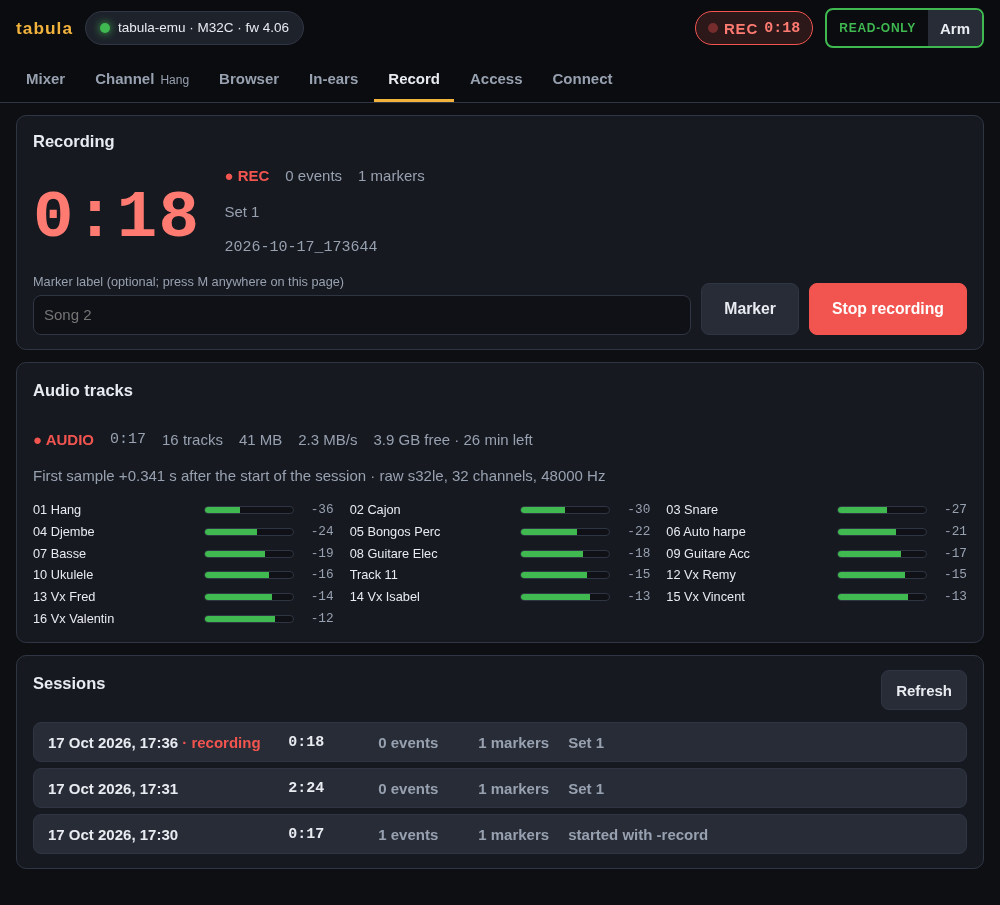
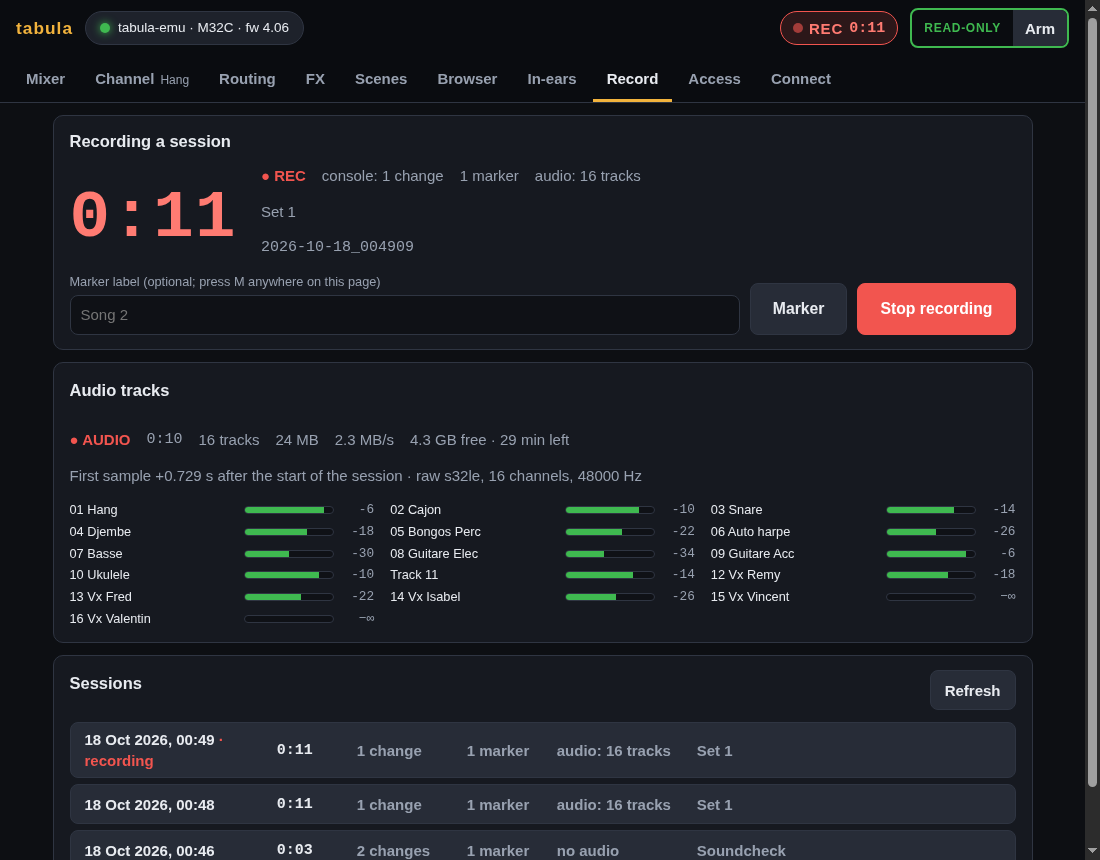
Record: say what a session keeps, console settings vs audio
The Recording card lists the two parts of a session: the console (a
snapshot of its settings, then every change, not the sound) always, and the
audio of the USB card only when Audio tracks is on, with its track count.
The session list and details count console changes and show which sessions
have audio; the replay says it moves the console and plays no sound. New
recording screenshot in the docs.

diff --git a/web/src/pages/RecordPage.tsx b/web/src/pages/RecordPage.tsx
@@ -1,14 +1,18 @@
 // Recording and replay of shows: start/stop with a note, markers (M key),
-// the recorded sessions, and replaying one onto the console.
+// the recorded sessions, and replaying one onto the console. A session is
+// the console (a snapshot of its settings, then every change) and, when the
+// audio card is on, the sound of the console's USB card.
 
 import { useCallback, useEffect, useRef, useState } from "react";
 import { ConfirmDialog } from "../components/shell";
 import { ApiError } from "../lib/api";
 import type { Record as RecordStatus, SessionDetail, SessionSummary } from "../lib/session";
+import { audioPlan, plural } from "../lib/audio";
 import { formatDuration, parseTime, sessionApi } from "../lib/session";
 import { useCanWrite, useRecord, useStatus } from "../store/hooks";
 import { store } from "../store/store";
-import { AudioPanel, SessionAudio } from "./AudioPanel";
+import type { Audio } from "./AudioPanel";
+import { AudioPanel, SessionAudio, useAudio } from "./AudioPanel";
 
 const SPEEDS = [0.5, 1, 2, 4, 8];
 
@@ -17,6 +21,7 @@ export function RecordPage() {
   const [sessions, setSessions] = useState<SessionSummary[] | null>(null);
   const [listError, setListError] = useState("");
   const [selected, setSelected] = useState<string | null>(null);
+  const audio = useAudio(!!rec?.recording);
 
   const load = useCallback(async () => {
     try {
@@ -42,8 +47,8 @@ export function RecordPage() {
   }
   return (
     <div className="page record">
-      <Recorder rec={rec} />
-      <AudioPanel rec={rec} />
+      <Recorder rec={rec} audio={audio} />
+      <AudioPanel rec={rec} audio={audio} />
       <section className="card">
         <div className="section-head">
           <h2>Sessions</h2>
@@ -71,8 +76,9 @@ export function RecordPage() {
                   {rec?.replaying && rec.replay_of === s.name && <span className="note"> · replaying</span>}
                 </span>
                 <span className="mono">{formatDuration(s.meta.duration)}</span>
-                <span className="muted">{s.meta.events} events</span>
-                <span className="muted">{s.meta.markers} markers</span>
+                <span className="muted">{plural(s.meta.events, "change")}</span>
+                <span className="muted">{plural(s.meta.markers, "marker")}</span>
+                <span className="muted">{s.meta.audio ? `audio: ${plural(s.meta.audio.tracks?.length ?? 0, "track")}` : "no audio"}</span>
                 <span className="session-note">{s.meta.note || s.meta.console || ""}</span>
               </button>
             );
@@ -100,7 +106,33 @@ function useTick(on: boolean, ms: number) {
   }, [on, ms]);
 }
 
-function Recorder({ rec }: { rec: RecordStatus | null }) {
+/** RecordsWhat lists what a session keeps: the console always, the audio when its card is on. */
+function RecordsWhat({ audio, live }: { audio: string; live?: boolean }) {
+  return (
+    <ul className="records-what">
+      <li>
+        <span className="rec-kind">Console</span>
+        <span>
+          a snapshot of every setting at the start (a scene file that opens in M32-Edit), then every change, on the console or here
+          (faders, mutes, EQ, routing, scene recalls…) with its time, and your markers. Settings only, not the sound; replaying a
+          session moves the console the same way.
+        </span>
+      </li>
+      <li className={audio ? "" : "off"}>
+        <span className="rec-kind">Audio</span>
+        <span>
+          {audio
+            ? `the sound of the console's USB card: ${audio}, in step with the console changes.`
+            : live
+              ? "not recorded in this session."
+              : "not recorded: turn on Audio tracks below to record the sound too."}
+        </span>
+      </li>
+    </ul>
+  );
+}
+
+function Recorder({ rec, audio }: { rec: RecordStatus | null; audio: Audio }) {
   const status = useStatus();
   const [note, setNote] = useState("");
   const [label, setLabel] = useState("");
@@ -155,7 +187,7 @@ function Recorder({ rec }: { rec: RecordStatus | null }) {
   const err = error || rec.error;
   return (
     <section className="card">
-      <h2>Recording</h2>
+      <h2>Recording a session</h2>
       {recording ? (
         <>
           <div className="rec-panel">
@@ -167,8 +199,9 @@ function Recorder({ rec }: { rec: RecordStatus | null }) {
                 <span className="danger-text">
                   <strong>● REC</strong>
                 </span>
-                <span>{rec.meta?.events ?? 0} events</span>
-                <span>{rec.meta?.markers ?? 0} markers</span>
+                <span>console: {plural(rec.meta?.events ?? 0, "change")}</span>
+                <span>{plural(rec.meta?.markers ?? 0, "marker")}</span>
+                <span>{rec.audio ? `audio: ${plural(rec.audio.tracks?.length ?? 0, "track")}` : "no audio"}</span>
               </div>
               {rec.meta?.note && <p className="muted">{rec.meta.note}</p>}
               <p className="muted mono">{rec.name}</p>
@@ -194,21 +227,24 @@ function Recorder({ rec }: { rec: RecordStatus | null }) {
           </form>
         </>
       ) : (
-        <form
-          className="row"
-          onSubmit={(e) => {
-            e.preventDefault();
-            void run(() => sessionApi.start(note.trim())).then((ok) => ok && setNote(""));
-          }}
-        >
-          <label className="grow">
-            <span className="field-label">Note (optional)</span>
-            <input className="input" type="text" value={note} placeholder="Set 1, venue…" onChange={(e) => setNote(e.target.value)} />
-          </label>
-          <button type="submit" className="btn big rec-start" disabled={busy || !status.connected}>
-            ● Start recording
-          </button>
-        </form>
+        <>
+          <RecordsWhat audio={audioPlan(audio.view?.config)} />
+          <form
+            className="row"
+            onSubmit={(e) => {
+              e.preventDefault();
+              void run(() => sessionApi.start(note.trim())).then((ok) => ok && setNote(""));
+            }}
+          >
+            <label className="grow">
+              <span className="field-label">Note (optional)</span>
+              <input className="input" type="text" value={note} placeholder="Set 1, venue…" onChange={(e) => setNote(e.target.value)} />
+            </label>
+            <button type="submit" className="btn big rec-start" disabled={busy || !status.connected}>
+              ● Start recording
+            </button>
+          </form>
+        </>
       )}
       {!recording && !status.connected && <p className="muted">Connect to a console to record it.</p>}
       {err && (
@@ -267,13 +303,13 @@ function Session({ name, rec }: { name: string; rec: RecordStatus | null }) {
           <dd>{formatStart(detail.meta.start)}</dd>
           <dt>Duration</dt>
           <dd className="mono">{formatDuration(detail.meta.duration)}</dd>
-          <dt>Events</dt>
+          <dt>Console</dt>
           <dd>
-            {detail.meta.events} changes, {detail.meta.markers} markers
+            settings at the start, then {plural(detail.meta.events, "change")}; {plural(detail.meta.markers, "marker")}
           </dd>
           {detail.meta.console && (
             <>
-              <dt>Console</dt>
+              <dt>Recorded from</dt>
               <dd>{detail.meta.console}</dd>
             </>
           )}
@@ -305,7 +341,11 @@ function Session({ name, rec }: { name: string; rec: RecordStatus | null }) {
 
       {detail && <SessionAudio detail={detail} />}
 
-      <h4>Replay</h4>
+      <h4>Replay onto the console</h4>
+      <p className="muted">
+        A replay moves the console as it was recorded: its settings, faders and mutes. It plays no sound; open the audio in Reaper or
+        Audacity with the exports above.
+      </p>
       {!can && (
         <p className="warn-box">
           A replay writes the recorded mix to the console: it is refused until writes are armed (top right).
@@ -379,7 +419,7 @@ function Session({ name, rec }: { name: string; rec: RecordStatus | null }) {
       {asking && (
         <ConfirmDialog title="Replay this session?" confirm="Replay" onConfirm={() => void start()} onCancel={() => setAsking(false)}>
           <p>
-            <strong>Replay writes the recorded mix to the console.</strong> It first sets the state at{" "}
+            <strong>Replay writes the recorded settings to the console.</strong> It first sets the state at{" "}
             {formatDuration(fromSeconds)}, then plays every recorded change{speed !== 1 ? ` at ${speed}× speed` : ""}.
           </p>
           <p className="muted">Faders and settings on the live console will move.</p>

diff --git a/web/src/lib/audio.test.ts b/web/src/lib/audio.test.ts
@@ -1,6 +1,6 @@
 import { describe, expect, it } from "vitest";
 import type { AudioConfig } from "./audio";
-import { byteRate, exportUrl, formatBytes, formatHours, parseTracks, trackLabel } from "./audio";
+import { audioPlan, byteRate, exportUrl, formatBytes, formatHours, parseTracks, plural, trackLabel } from "./audio";
 
 describe("audio tracks", () => {
   it("reads track lists as the server does", () => {
@@ -37,5 +37,22 @@ describe("audio tracks", () => {
   });
   it("builds export links", () => {
     expect(exportUrl("2026-10-17_203000", "reaper")).toBe("/api/sessions/2026-10-17_203000/export?format=reaper");
+  });
+});
+
+describe("audioPlan", () => {
+  const c: AudioConfig = { enabled: true, recorder: "arecord", device: "hw:X32", channels: 32, rate: 48000, bits: 24, tracks: "1-16" };
+  it("says what the next session records", () => {
+    expect(audioPlan(c)).toBe("16 tracks, 24-bit WAV");
+    expect(audioPlan({ ...c, tracks: "5" })).toBe("1 track, 24-bit WAV");
+    expect(audioPlan({ ...c, tracks: "" })).toBe("32 tracks, 24-bit WAV");
+  });
+  it("is empty when no audio is recorded", () => {
+    expect(audioPlan({ ...c, enabled: false })).toBe("");
+    expect(audioPlan(undefined)).toBe("");
+    expect(audioPlan({ ...c, tracks: "40" })).toBe("");
+  });
+  it("counts", () => {
+    expect([plural(0, "marker"), plural(1, "marker"), plural(2, "marker")]).toEqual(["0 markers", "1 marker", "2 markers"]);
   });
 });

diff --git a/web/src/pages/AudioPanel.tsx b/web/src/pages/AudioPanel.tsx
@@ -19,12 +19,16 @@ const BITS = [16, 24, 32];
 const RATES = [44100, 48000, 96000];
 const INPUTS = ["s32le", "s24-32le", "s24le", "s16le", "f32le"];
 
-/** AudioPanel is the Record page's audio card. */
-export function AudioPanel({ rec }: { rec: RecordStatus | null }) {
+export interface Audio {
+  view: AudioView | null;
+  error: string;
+  setView(v: AudioView): void;
+}
+
+/** useAudio loads the audio settings, again when a recording starts or stops (free space, last capture). */
+export function useAudio(recording: boolean): Audio {
   const [view, setView] = useState<AudioView | null>(null);
   const [error, setError] = useState("");
-  const recording = !!rec?.recording;
-
   const load = useCallback(async () => {
     try {
       setView(await audioApi.get());
@@ -33,10 +37,16 @@ export function AudioPanel({ rec }: { rec: RecordStatus | null }) {
       setError((e as Error).message);
     }
   }, []);
-  // reload when a recording starts or stops (free space, last capture)
   useEffect(() => {
     void load();
   }, [load, recording]);
+  return { view, error, setView };
+}
+
+/** AudioPanel is the Record page's audio card. */
+export function AudioPanel({ rec, audio }: { rec: RecordStatus | null; audio: Audio }) {
+  const { view, error, setView } = audio;
+  const recording = !!rec?.recording;
 
   if (!view) {
     return error ? (

diff --git a/web/src/styles.css b/web/src/styles.css
@@ -1148,6 +1148,38 @@ div.scribble {
 .elapsed.live {
   color: #ff7b72;
 }
+.records-what {
+  list-style: none;
+  margin: 0 0 14px;
+  padding: 0;
+  display: grid;
+  gap: 8px;
+}
+.records-what li {
+  display: grid;
+  grid-template-columns: 5.5em minmax(0, 1fr);
+  gap: 10px;
+  align-items: baseline;
+  font-size: 0.92rem;
+}
+.records-what li.off {
+  color: var(--muted);
+}
+.rec-kind {
+  padding: 2px 0;
+  border-radius: 999px;
+  border: 1px solid var(--accent);
+  color: var(--accent);
+  font-size: 0.75rem;
+  font-weight: 800;
+  letter-spacing: 0.05em;
+  text-align: center;
+  text-transform: uppercase;
+}
+.records-what li.off .rec-kind {
+  border-color: var(--line);
+  color: var(--muted);
+}
 .rec-stats {
   display: flex;
   flex-wrap: wrap;
@@ -1170,7 +1202,7 @@ div.scribble {
 }
 .session-item {
   display: grid;
-  grid-template-columns: minmax(150px, 1.2fr) 80px 90px 80px minmax(0, 2fr);
+  grid-template-columns: minmax(150px, 1.2fr) 70px 100px 80px 130px minmax(0, 2fr);
   gap: 10px;
   align-items: center;
   width: 100%;

diff --git a/web/src/lib/audio.ts b/web/src/lib/audio.ts
@@ -117,6 +117,17 @@ export function parseTracks(spec: string, channels: number): number[] | string {
   return [...seen].sort((x, y) => x - y);
 }
 
+/** audioPlan says what audio a configuration records: "16 tracks, 24-bit WAV", or "" when none. */
+export function audioPlan(c: AudioConfig | undefined): string {
+  if (!c?.enabled) return "";
+  const t = parseTracks(c.tracks ?? "", c.channels);
+  if (typeof t === "string") return "";
+  return `${plural(t.length, "track")}, ${c.bits}-bit WAV`;
+}
+
+/** plural counts things: "1 track", "16 tracks". */
+export const plural = (n: number, word: string) => `${n} ${word}${n === 1 ? "" : "s"}`;
+
 /** byteRate is what a configuration writes per second, all files. */
 export function byteRate(c: AudioConfig): number {
   const t = parseTracks(c.tracks ?? "", c.channels);

diff --git a/docs/gui.md b/docs/gui.md
@@ -172,12 +172,21 @@ bus here; musicians get only theirs. See [access](access.md).
 
 ## Record
 
-Record a show: a snapshot of the console when you start (a scene file
-that opens in M32-Edit) plus every change with its time, and markers you add
-(press M), with the audio tracks of the console's USB card if you choose
-them. Replay a session onto the console or the emulator, from a time or a
-marker, at a chosen speed (writes must be armed); export it for Reaper or
-Audacity. See [recording](recording.md) and the
+Record a show as a session, which keeps two things, as the page says above
+**Start recording**:
+
+- **Console**, always: the console's settings, not its sound. A snapshot of
+  every setting when you start (a scene file that opens in M32-Edit), then
+  every change, made on the console or here, with its time, and the markers
+  you add (press M).
+- **Audio**, when **Audio tracks** is on: the sound of the console's USB
+  card, one WAV file per track, in step with the console changes.
+
+The session list says for each one how many console changes and markers it
+holds, and whether it has audio. Replay a session onto the console or the
+emulator, from a time or a marker, at a chosen speed (writes must be
+armed): it moves the console as recorded and plays no sound. Export it for
+Reaper or Audacity to listen to the audio with the markers. See [recording](recording.md) and the
 [API](API.md#recording-and-replay) for the session format.
 
 ## Access

diff --git a/docs/recording.md b/docs/recording.md
@@ -4,13 +4,18 @@ title: Recording a show, with its audio
 
 # Recording a show, with its audio
 
-`tabula` records a show as a **session**: a snapshot of the console when the
-recording starts, every change made afterwards with its time (who moved
-which fader, when), markers, and — when audio is enabled — **one WAV file
-per track** of the console's USB card, recorded by the same program so that
-the tracks and the console moves line up. Afterwards, open the tracks in
-Audacity or Reaper with the markers in place, and replay the console moves
-onto the console or the emulator.
+`tabula` records a show as a **session**, made of two parts:
+
+- **The console** (always): its settings, not its sound. A snapshot of the
+  console when the recording starts, every change made afterwards with its
+  time (who moved which fader, when), and markers.
+- **The audio** (when enabled): **one WAV file per track** of the console's
+  USB card, recorded by the same program so that the tracks and the console
+  moves line up.
+
+Afterwards, open the tracks in Audacity or Reaper with the markers in
+place, and replay the console moves onto the console or the emulator (a
+replay moves faders and settings; it plays no sound).
 
 ![The Record page while recording: the session and its 16 audio tracks with their levels](img/record-audio.png)
 

diff --git a/CHANGELOG.md b/CHANGELOG.md
@@ -3,6 +3,10 @@
 ## Unreleased
 
 ### tabula
+- The Record page says what a session keeps: the console (its settings and
+  every change, not the sound) always, the audio only when Audio tracks is
+  on; the session list shows which sessions have audio, and replays say
+  they move the console and play no sound.
 - Security: requests that change something are refused when they come from
   a page of another site (a page open in a browser of the laptop could
   otherwise use tabula as the engineer, and set a custom recorder command),
